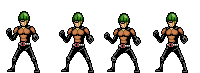
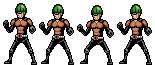
player sprite class and animations

diff --git a/src/index.js b/src/index.js
@@ -2,8 +2,8 @@ const canvas = document.querySelector('canvas');
 const context = canvas.getContext('2d');
 
 const timerMin = 2000;
-const timerMax = 10000;
-const fakeoutProb = 30; //Percent Chance of duel timer being a fakeout timer
+const timerMax = 2000;
+const fakeoutProb = 50; //Percent Chance of duel timer being a fakeout timer
 
 let timeToTackle = false;
 var duelActive = false;
@@ -27,14 +27,39 @@ const mumenIdleFlipped = new Image()
 const duelPromptImage = new Image()
 const fakeOutPromptImage = new Image()
 
-mumenIdle.src = '../images/characters/mumen_rider/mumen_biking_nogap.png'
+const playerOnePunch = new Image()
+const playerTwoPunch = new Image()
+
+const playerOneLose = new Image();
+const playerTwoLose = new Image();
+
+mumenIdle.src = '../images/characters/mumen_rider/mumen_idle.png'
 mumenIdleFlipped.src = '../images/characters/mumen_rider/mumen_idle_flipped.png'
+playerOnePunch.src = '../images/characters/mumen_rider/mumen_punch.png'
+playerTwoPunch.src = '../images/characters/mumen_rider/mumen_punch_flipped.png' // ändra hur flippade ser ut, nu är det fel
+
+playerOneLose.src = '../images/characters/mumen_rider/mumen_punched.png'
+playerTwoLose.src = '../images/characters/mumen_rider/mumen_punched.png' // ändra till flippade versionen
+
 duelPromptImage.src = '../images/exclamation4.png'
 
-const playerOne = new drawable({cropStart: {x : 0, y : 0}, image: mumenIdle, numSprites: 8, canvasPosition: {x: 130, y: 210}})
-const playerTwo = new drawable({cropStart: {x : 0, y : 0}, image: mumenIdleFlipped, numSprites: 4, canvasPosition: {x:470, y:200}})
-const duelPrompt = new drawable({cropStart:{x:0, y:0}, image: duelPromptImage, numSprites: 1, canvasPosition: {x: canvas.width, y: canvas.height / 2}})
-const fakeOutPrompt = new drawable({cropStart:{x: 0, y: 0}, image: fakeOutPromptImage, numSprites: 1, canvasPosition:{x: canvas.width, y: canvas.height / 2}})
+const playerOneIdle = new drawable({cropStart: {x : 0, y : 0}, image: mumenIdle, numSprites: 4, canvasPosition: {x: 130, y: 120}, scalingConstant: 2})
+const playerTwoIdle = new drawable({cropStart: {x : 0, y : 0}, image: mumenIdleFlipped, numSprites: 4, canvasPosition: {x:410, y:135} , scalingConstant: 2})
+const duelPrompt = new drawable({cropStart:{x:0, y:0}, image: duelPromptImage, numSprites: 1, canvasPosition: {x: canvas.width, y: canvas.height / 2}, scalingConstant: 1})
+const fakeOutPrompt = new drawable({cropStart:{x: 0, y: 0}, image: fakeOutPromptImage, numSprites: 1, canvasPosition:{x: canvas.width, y: canvas.height / 2}, scalingConstant: 1})
+
+const playerOnePunchDrawable = new drawable({cropStart: {x : 0, y: 0}, image: playerOnePunch, numSprites: 4, canvasPosition: {x:130, y: 120}, scalingConstant: 2})
+const playerTwoPunchDrawable = new drawable({cropStart: {x : 0, y: 0}, image: playerTwoPunch, numSprites: 4, canvasPosition: {x:410, y: 135}, scalingConstant: 2})
+
+const playerOneLoseDrawable = new drawable({cropStart: {x : 0, y: 0}, image: playerOneLose, numSprites: 7, canvasPosition: {x:130, y: 120}, scalingConstant: 2})
+const playerTwoLoseDrawable = new drawable({cropStart: {x : 0, y: 0}, image: playerOneLose, numSprites: 7, canvasPosition: {x:410, y: 135}, scalingConstant: 2})
+
+
+let frameCounter = 0;
+
+
+const playerOne = new playerSprite({idleDrawable: playerOneIdle, punchDrawable: playerOnePunchDrawable, punchedDrawable: playerOneLoseDrawable});
+const playerTwo= new playerSprite({idleDrawable: playerTwoIdle, punchDrawable: playerTwoPunchDrawable, punchedDrawable: playerTwoLoseDrawable});
 let drawables = [playerOne, playerTwo]
 
 const backgroundImage = new Image();
@@ -47,13 +72,15 @@ canvas.height = 304;
 
 var duel;
 
+function drawEndOfRoundCanvas(){
+    
+}
+
 function drawCanvas() {
     context.drawImage(backgroundImage, 0, 0);
-    drawables.forEach((i) => {
-        i.draw()
-        i.nextIdle(60)
-    });
-
+    playerOne.draw();
+    playerTwo.draw();
+    
     if(timeToTackle){
         duelPrompt.draw();
     }
@@ -61,7 +88,6 @@ function drawCanvas() {
     if(drawFakeOutPrompt){
         fakeOutPrompt.draw();
     }
-    //context.drawImage(mumenIdle, 0, 0)
     // draw characters, timer, starting guide etc 
 }
 
@@ -69,6 +95,17 @@ function drawIntroText(){
     context.fillStyle = "white";
     context.font = "20px Helvetica, Arial, sans-serif";
     context.fillText("PRESS [SPACEBAR] TO START", canvas.width/3.5, canvas.height - 10);
+}
+
+function resetValues(){
+    // reset values
+    fakeOut = false;
+    realDuel = false;
+    duelActive = false;
+    timeToTackle = false;
+    drawFakeOutPrompt = false;
+    duelStartTime = 0;
+    duelResponseTime = 0;
 }
 
 function doIntermission(){
@@ -83,15 +120,7 @@ function doIntermission(){
         clearTimeout(duel);
     }
     context.fillText("PRESS [SPACEBAR] TO START", canvas.width/3.5, canvas.height - 10);
-
-    // reset values
-    fakeOut = false;
-    realDuel = false;
-    duelActive = false;
-    timeToTackle = false;
-    drawFakeOutPrompt = false;
-    duelStartTime = 0;
-    duelResponseTime = 0;
+    resetValues();
 }
 
 function introLoop() {
@@ -164,13 +193,21 @@ function startNewDuelTimer(){
 function removeFakeoutPromt(){
     //Remove the fakeout prompt
     drawFakeOutPrompt = false;
+    fakeOut = false;
+    resetValues();
 }
 
 function playerWins(player){
+    // ANIMATE player x punches player y
+
     if(player === 1){
+        playerOne.punch();
+        playerTwo.lose();
         playerOneWins += 1;
         lastPlayerWon = 1;
     }else if (player === 2){
+        playerTwo.punch();
+        playerOne.lose();
         playerTwoWins += 1;
         lastPlayerWon = 2;
     }
@@ -178,6 +215,7 @@ function playerWins(player){
 
 function playerLoses(player){
     // Kill the timer
+    // ANIMATE player loses (vad ska det vara)
     clearTimeout(duel);
     if(player === 1){
         playerTwoWins += 1;

diff --git a/src/drawable.js b/src/drawable.js
@@ -1,36 +1,46 @@
 class drawable {
     
-    constructor({cropStart, image, numSprites, canvasPosition}) {
+    constructor({cropStart, image, numSprites, canvasPosition, scalingConstant}) {
         this.cropStart = cropStart
         this.image = image
         this.numSprites = numSprites
         this.canvasPosition = canvasPosition;
         this.frameCounter = 0;
+        this.scalingConstant = scalingConstant
+        this.hidden = false;
     }
 
     draw() {
-        context.drawImage(
-            this.image,                             
-            this.cropStart.x,                        // x position of the start of the crop
-            this.cropStart.y,                        // y position of the start of the crop
-            this.image.width / this.numSprites,     // x position of the end of the crop
-            this.image.height,                      // y position of the end of the crop
-            this.canvasPosition.x,                  // x position of the image on the canvas
-            this.canvasPosition.y,                  // y position of the image on the canvas
-            this.image.width / this.numSprites,     // The width of the image to be rendered
-            this.image.height                       // The height of the image to be rendered
-        )
+        if(!this.hidden){
+            context.drawImage(
+                this.image,                             
+                this.cropStart.x,                        // x position of the start of the crop
+                this.cropStart.y,                        // y position of the start of the crop
+                this.image.width / this.numSprites,     // x position of the end of the crop
+                this.image.height,                      // y position of the end of the crop
+                this.canvasPosition.x,                  // x position of the image on the canvas
+                this.canvasPosition.y,                  // y position of the image on the canvas
+                (this.image.width / this.numSprites) * this.scalingConstant,     // The width of the image to be rendered
+                this.image.height * this.scalingConstant                    // The height of the image to be rendered
+            )
+        }
     }
 
-    nextIdle(frameRate) {
-        // the picture width has to be dividible by the numsprites
-        if(this.frameCounter++ % (frameRate / this.numSprites) === 0){
+    nextIdle(frameRate) {        
+        if(Math.floor(this.frameCounter++ % (frameRate / this.numSprites)) === 0){
             this.cropStart.x += (this.image.width / this.numSprites)
             this.cropStart.x = this.cropStart.x % this.image.width
         }else{
             this.frameCounter += 1;
         }
         
-        
+    }
+
+    makeInvisible() {
+        this.hidden = true;
+    }
+
+    makeVisible(){
+        this.hidden = false;
     }
 }

diff --git a/src/playerSprite.js b/src/playerSprite.js
@@ -1,0 +1,39 @@
+class playerSprite {
+    constructor({idleDrawable, punchDrawable, punchedDrawable}) {
+        this.currentDrawable = 0; //0 Idle, 1 Punch, 2 gets punched
+        this.idleDrawable = idleDrawable;
+        this.punchDrawable = punchDrawable;
+        this.punchedDrawable = punchedDrawable;
+    }
+    
+    punch(){
+        this.currentDrawable = 1;
+    }
+    
+    lose(){
+        this.currentDrawable = 2;
+    }
+    
+    idle(){
+       this.currentDrawable = 0;
+    }
+    
+    draw(){
+        switch (this.currentDrawable){
+            case 0:
+                this.idleDrawable.draw();
+                this.idleDrawable.nextIdle(60);
+                break;
+            case 1:
+                this.punchDrawable.draw()
+                this.punchDrawable.nextIdle(60);
+                break;
+            case 2:
+                this.punchedDrawable.draw();
+                this.punchedDrawable.nextIdle(60);
+                break
+            default:
+                break;
+        }
+    }
+}

diff --git a/src/index.html b/src/index.html
@@ -26,4 +26,5 @@
 </html>
 
 <script src="drawable.js"></script>
+<script src="playerSprite.js"></script>
 <script src="index.js"></script>
